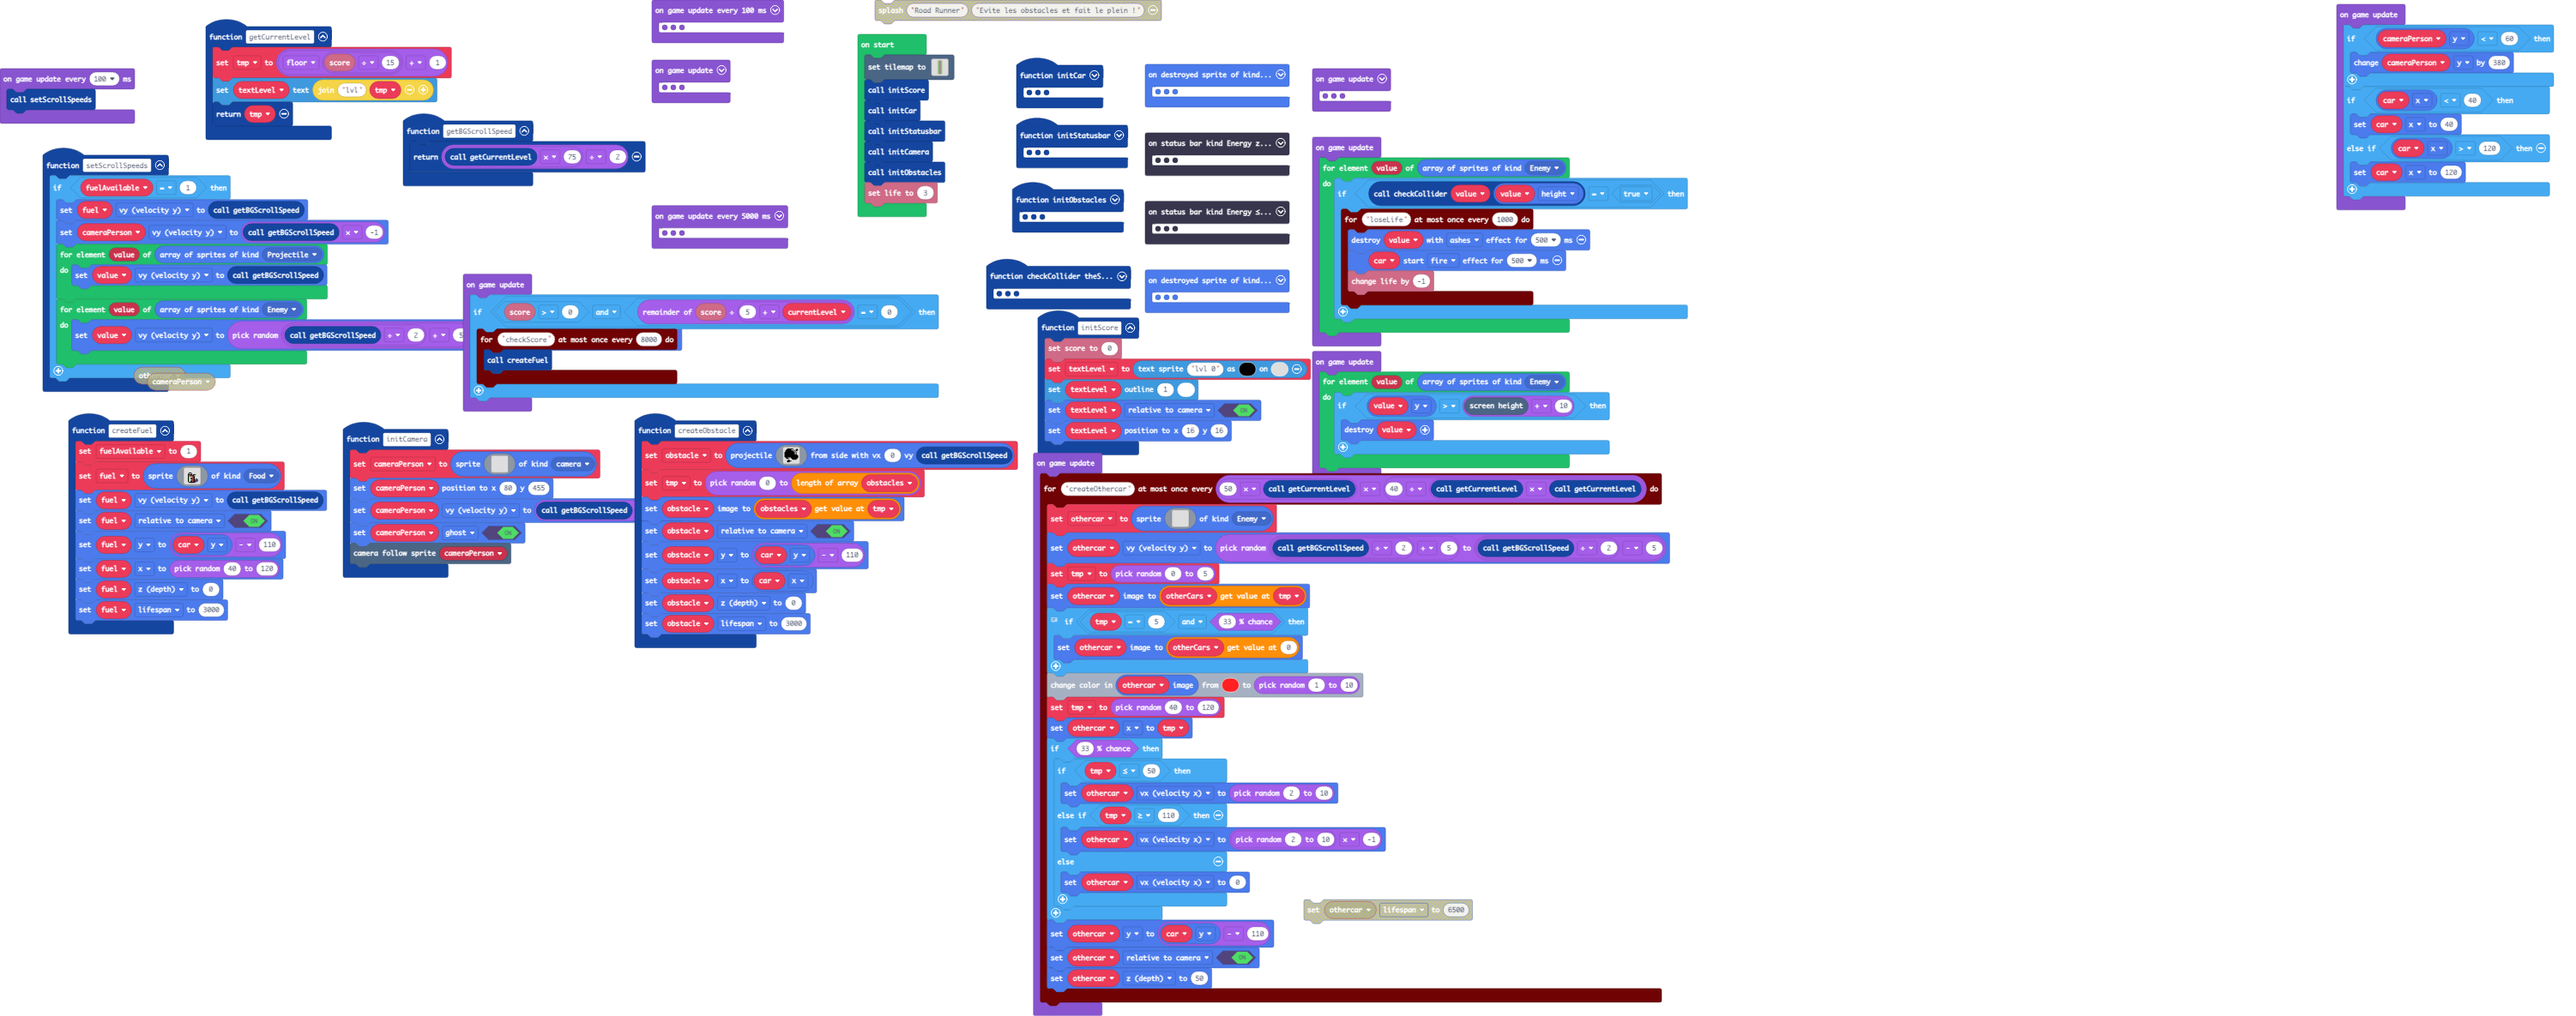
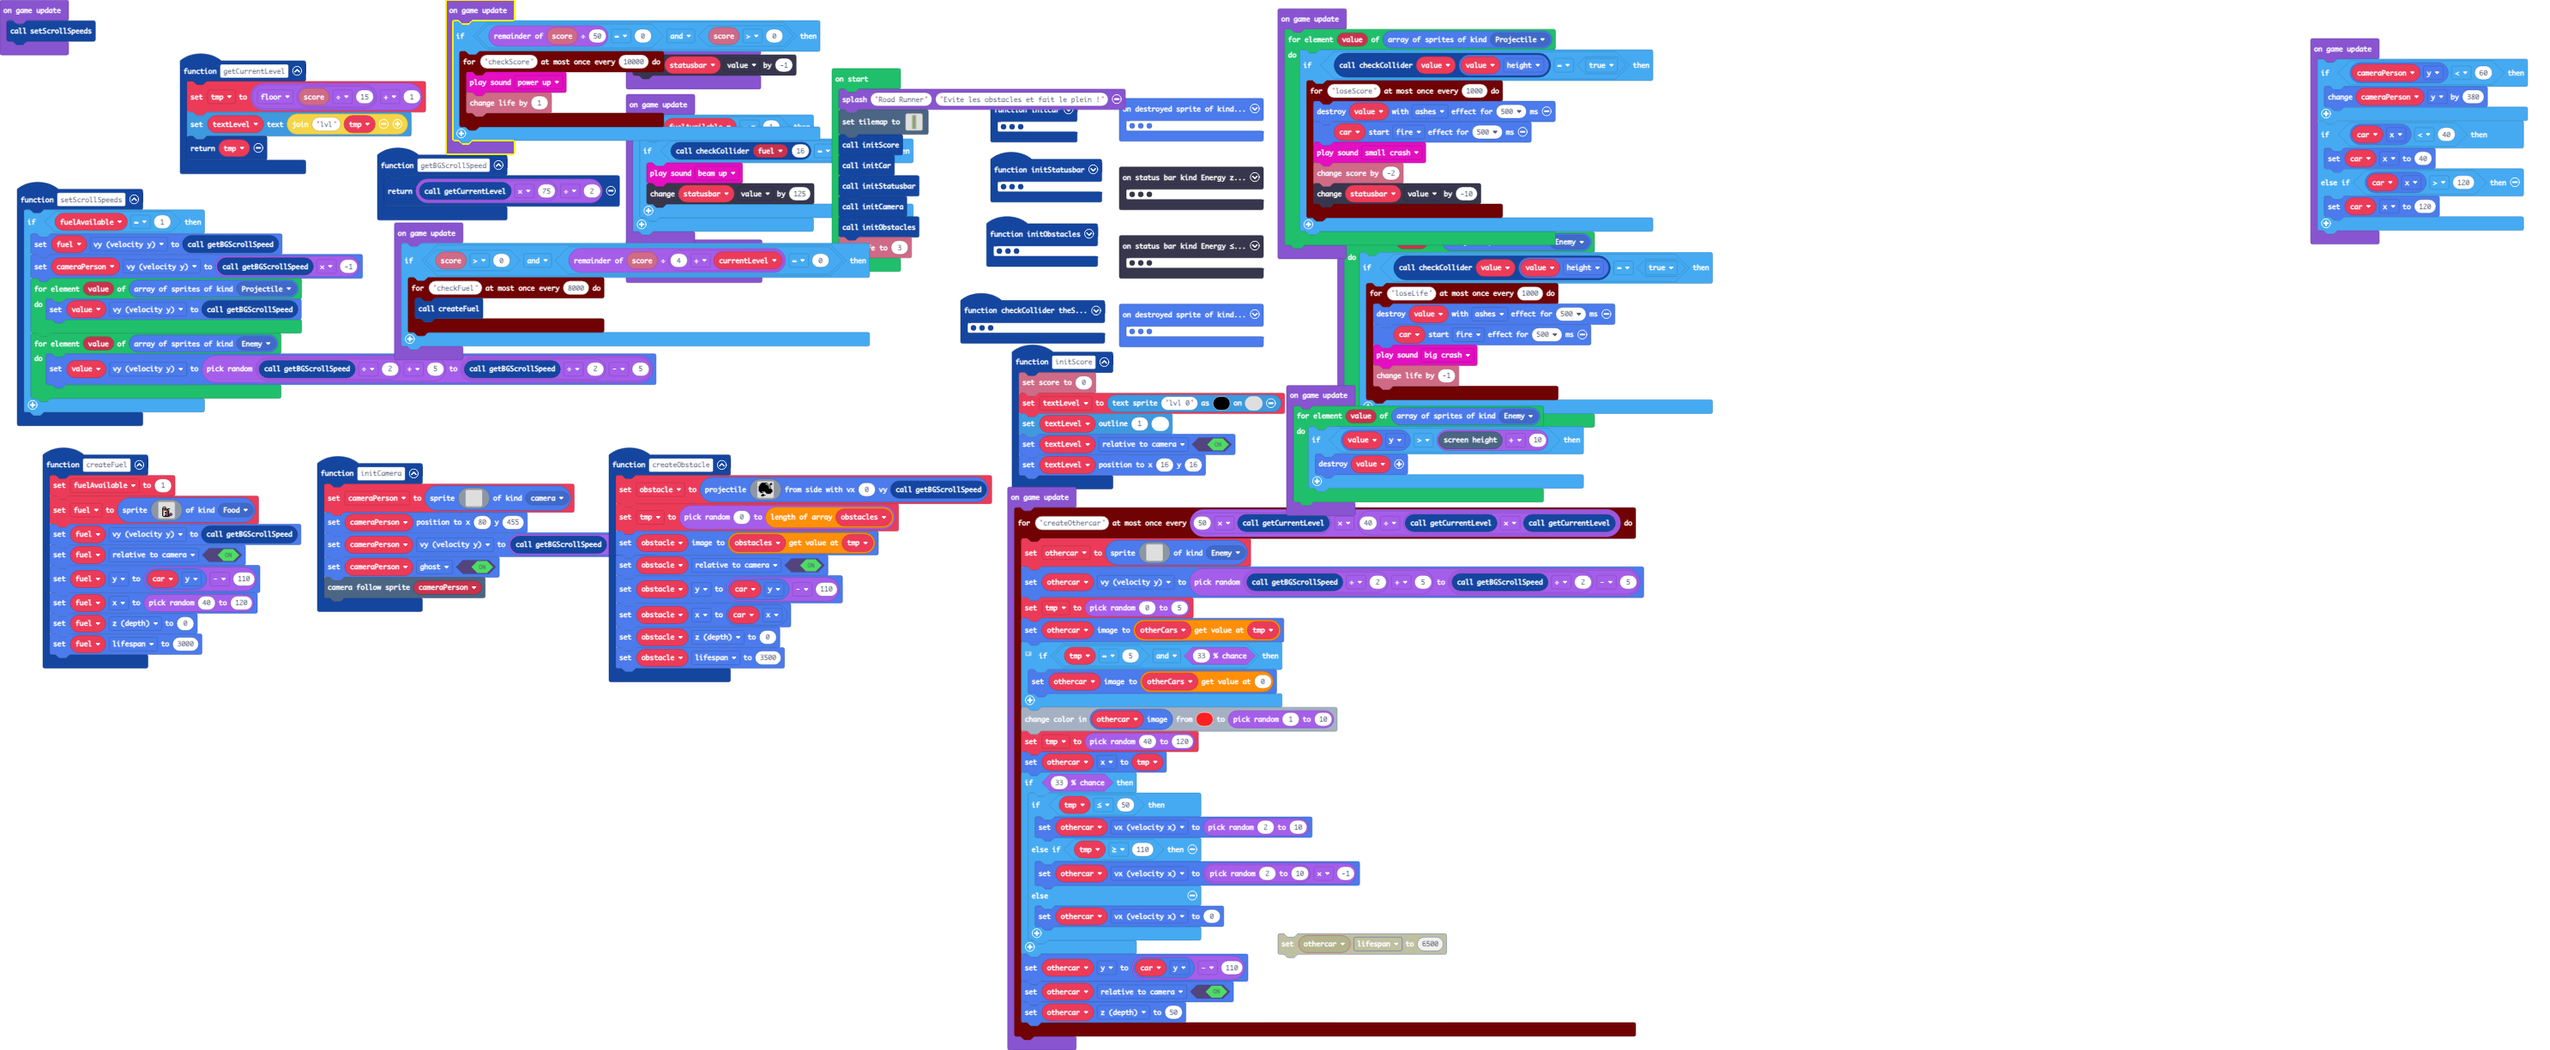
free lifes

Changed region(s): [[0.0, 0.0, 0.6808, 1.0], [0.8974, 0.0, 1.0, 0.2498]]

diff --git a/main.ts b/main.ts
@@ -29,7 +29,7 @@ function createObstacle () {
     obstacle.y = car.y - 110
     obstacle.x = car.x
     obstacle.z = 0
-    obstacle.lifespan = 3000
+    obstacle.lifespan = 3500
 }
 function checkCollider (theSprite: Sprite, spriteHeight: number) {
     if (theSprite.x >= car.x - 10 && theSprite.x <= car.x + 10) {
@@ -378,6 +378,7 @@ let car: Sprite = null
 let obstacles: Image[] = []
 let tmp = 0
 let obstacle: Sprite = null
+game.splash("Road Runner", "Evite les obstacles et fait le plein !")
 tiles.setTilemap(tilemap`level1`)
 initScore()
 initCar()
@@ -386,8 +387,33 @@ initCamera()
 initObstacles()
 info.setLife(3)
 game.onUpdate(function () {
+    setScrollSpeeds()
+})
+game.onUpdate(function () {
+    if (info.score() % 50 == 0 && info.score() > 0) {
+        timer.throttle("checkScore", 10000, function () {
+            music.powerUp.play()
+            info.changeLifeBy(1)
+        })
+    }
+})
+game.onUpdate(function () {
+    for (let value of sprites.allOfKind(SpriteKind.Projectile)) {
+        if (checkCollider(value, value.height) == true) {
+            timer.throttle("loseScore", 1000, function () {
+                value.destroy(effects.ashes, 500)
+                car.startEffect(effects.fire, 500)
+                music.smallCrash.play()
+                info.changeScoreBy(-2)
+                statusbar.value += -10
+            })
+        }
+    }
+})
+game.onUpdate(function () {
     if (fuelAvailable == 1) {
         if (checkCollider(fuel, 16) == true) {
+            music.beamUp.play()
             statusbar.value += 125
         }
     }
@@ -403,15 +429,11 @@ game.onUpdate(function () {
     }
 })
 game.onUpdate(function () {
-    for (let value of sprites.allOfKind(SpriteKind.Projectile)) {
-        if (checkCollider(value, value.height) == true) {
-            timer.throttle("loseScore", 1000, function () {
-                value.destroy(effects.ashes, 500)
-                car.startEffect(effects.fire, 500)
-                info.changeScoreBy(-2)
-                statusbar.value += -10
-            })
-        }
+    let currentLevel = 0
+    if (info.score() > 0 && info.score() % (4 + currentLevel) == 0) {
+        timer.throttle("checkFuel", 8000, function () {
+            createFuel()
+        })
     }
 })
 game.onUpdate(function () {
@@ -420,17 +442,10 @@ game.onUpdate(function () {
             timer.throttle("loseLife", 1000, function () {
                 value.destroy(effects.ashes, 500)
                 car.startEffect(effects.fire, 500)
+                music.bigCrash.play()
                 info.changeLifeBy(-1)
             })
         }
-    }
-})
-game.onUpdate(function () {
-    let currentLevel = 0
-    if (info.score() > 0 && info.score() % (5 + currentLevel) == 0) {
-        timer.throttle("checkScore", 8000, function () {
-            createFuel()
-        })
     }
 })
 game.onUpdate(function () {
@@ -489,9 +504,6 @@ game.onUpdateInterval(5000, function () {
         createObstacle()
     }
 })
-game.onUpdateInterval(100, function () {
+game.onUpdateInterval(125, function () {
     statusbar.value += -1
-})
-game.onUpdateInterval(100, function () {
-    setScrollSpeeds()
 })
